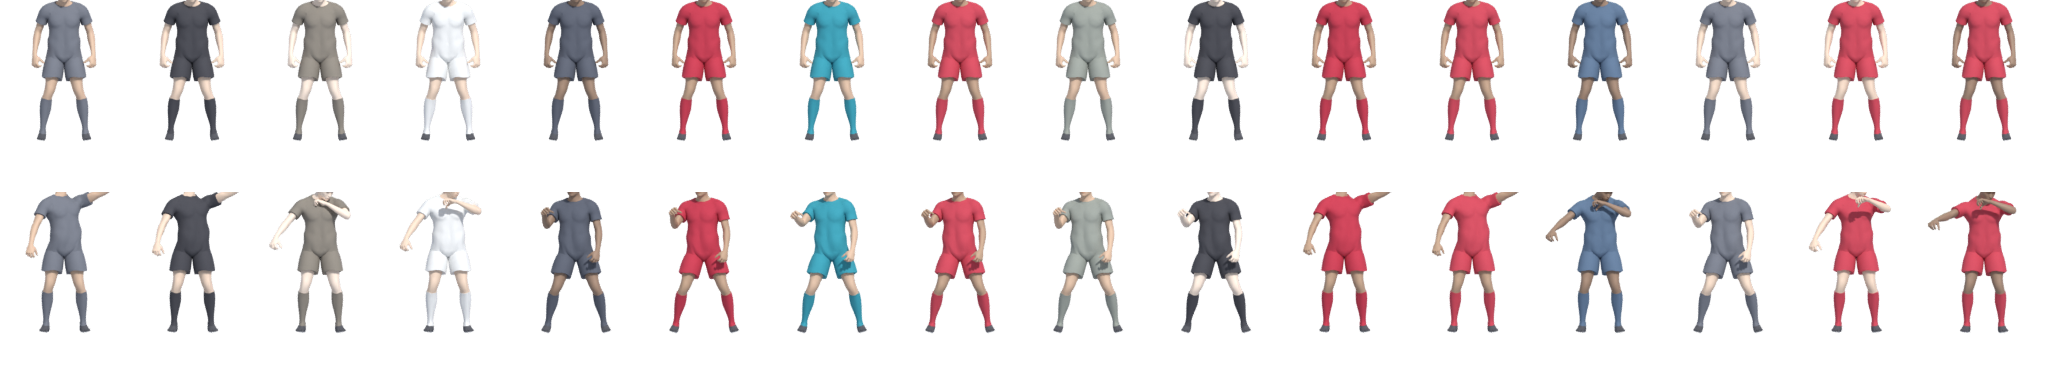
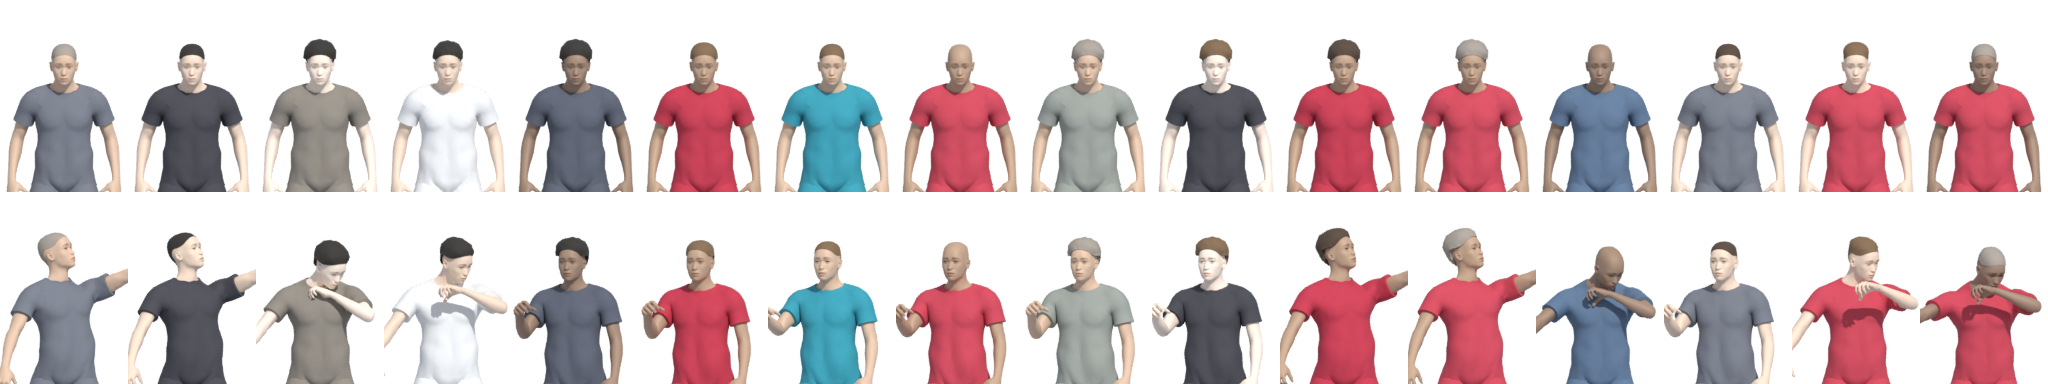
Crowd: spectators from the waist up (no shorts and socks in the stands); pitch-side people out until proper staff renders
Claude-Session: https://claude.ai/code/session_01WuZgTPWAtP5SSMo5MWF8o7

diff --git a/tools/blender/make_crowd.py b/tools/blender/make_crowd.py
@@ -3,9 +3,9 @@
   blender --background --factory-startup --python tools/blender/make_crowd.py -- <player.glb> <out dir>
   python3 tools/blender/pack_crowd.py <out dir> assets/stadium/crowd_atlas.png
 
-Renders N_FANS supporters (varied skin, hair, clothes) in two states each: calm (standing) and cheering (the
-celebration clip). Each is a transparent PNG seen from the pitch, slightly from below, as the stands are seen
-from the broadcast camera. pack_crowd.py lays them out in one atlas: column = fan, row 0 calm, row 1 cheering.
+Renders N_FANS supporters (varied skin, hair, tops) in two states each: calm (standing) and cheering (the
+celebration clip). Each is a transparent PNG of the person from the waist up (in a stand the row in front hides
+the legs, and the player model's shorts and socks must not show), seen from the pitch. pack_crowd.py lays them out in one atlas: column = fan, row 0 calm, row 1 cheering.
 The game draws the crowd as one MultiMesh of cards sampling that atlas (scripts/view/pitch_view.gd).
 """
 import math
@@ -59,9 +59,9 @@ sc.collection.objects.link(sun)
 # camera: in front of the fan (the model faces -y in Blender), a little below eye level, orthographic
 cam_data = bpy.data.cameras.new("cam")
 cam_data.type = "ORTHO"
-cam_data.ortho_scale = 2.05
+cam_data.ortho_scale = 1.15        # frame height: waist (~0.75 m) to above the head (~1.9 m)
 cam = bpy.data.objects.new("cam", cam_data)
-cam.location = (0, -6.0, 0.9)
+cam.location = (0, -6.0, 1.84)   # the imported model stands ~0.5 m above the origin
 cam.rotation_euler = (math.radians(86), 0, 0)
 sc.collection.objects.link(cam)
 sc.camera = cam
